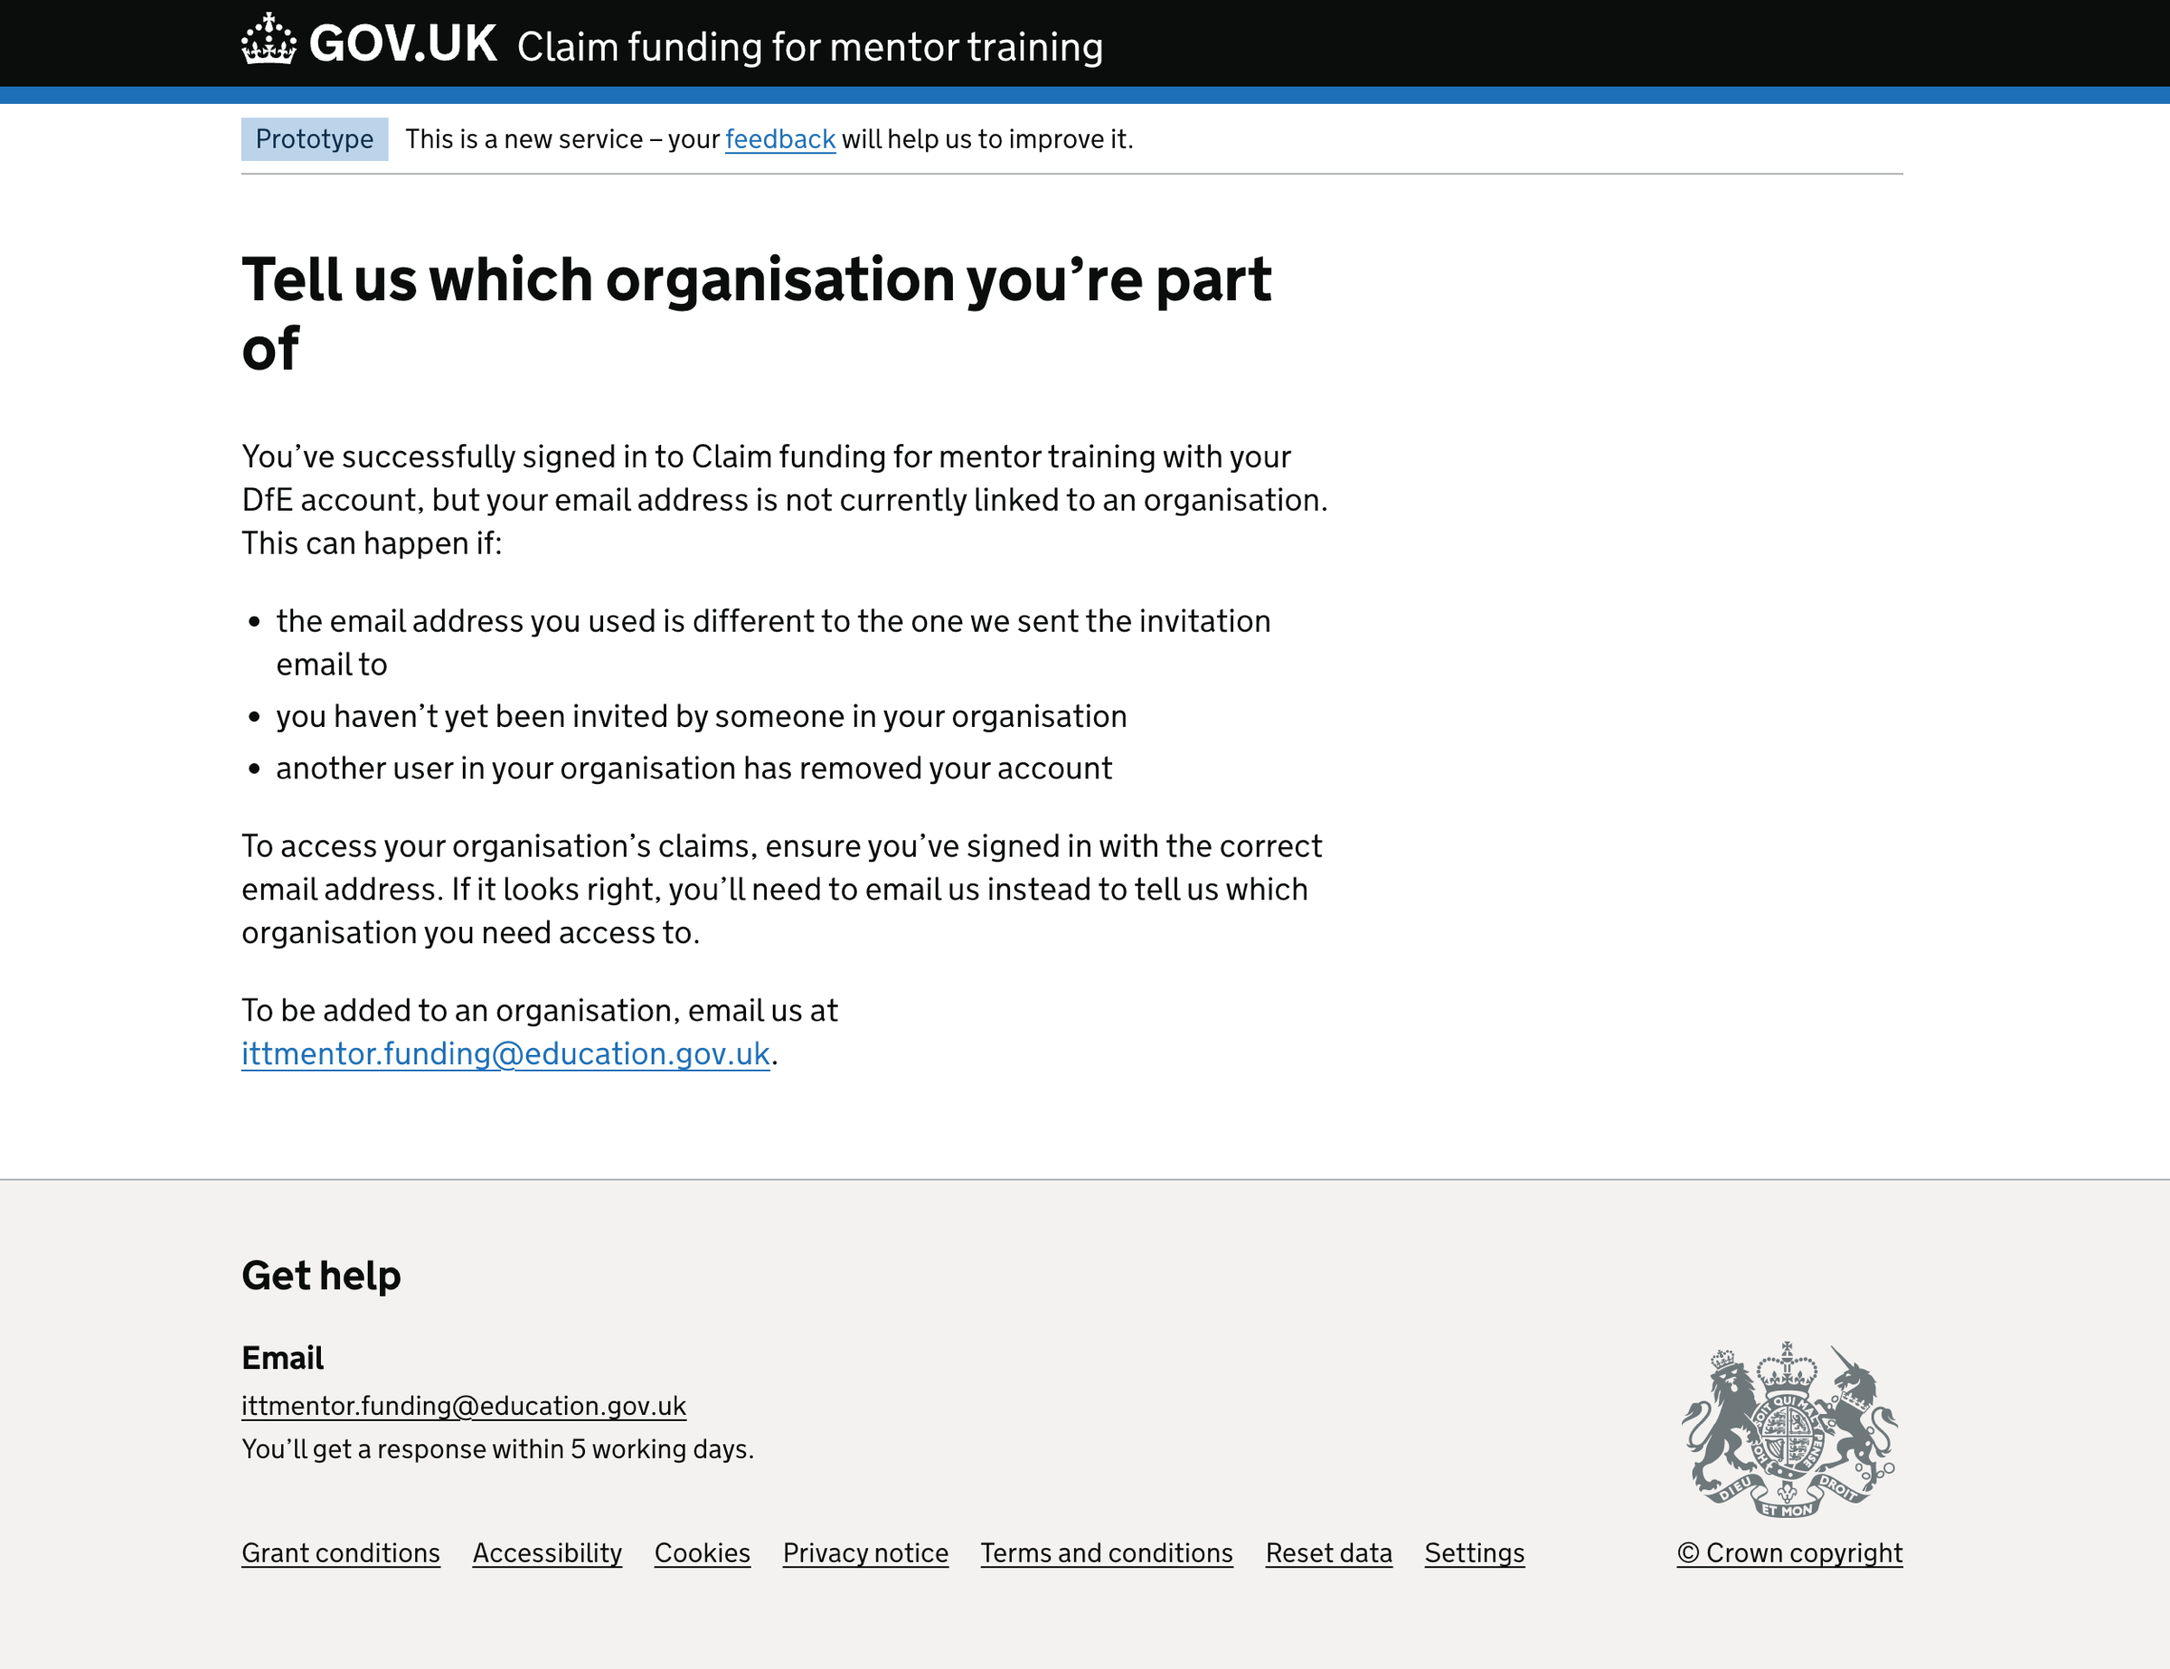
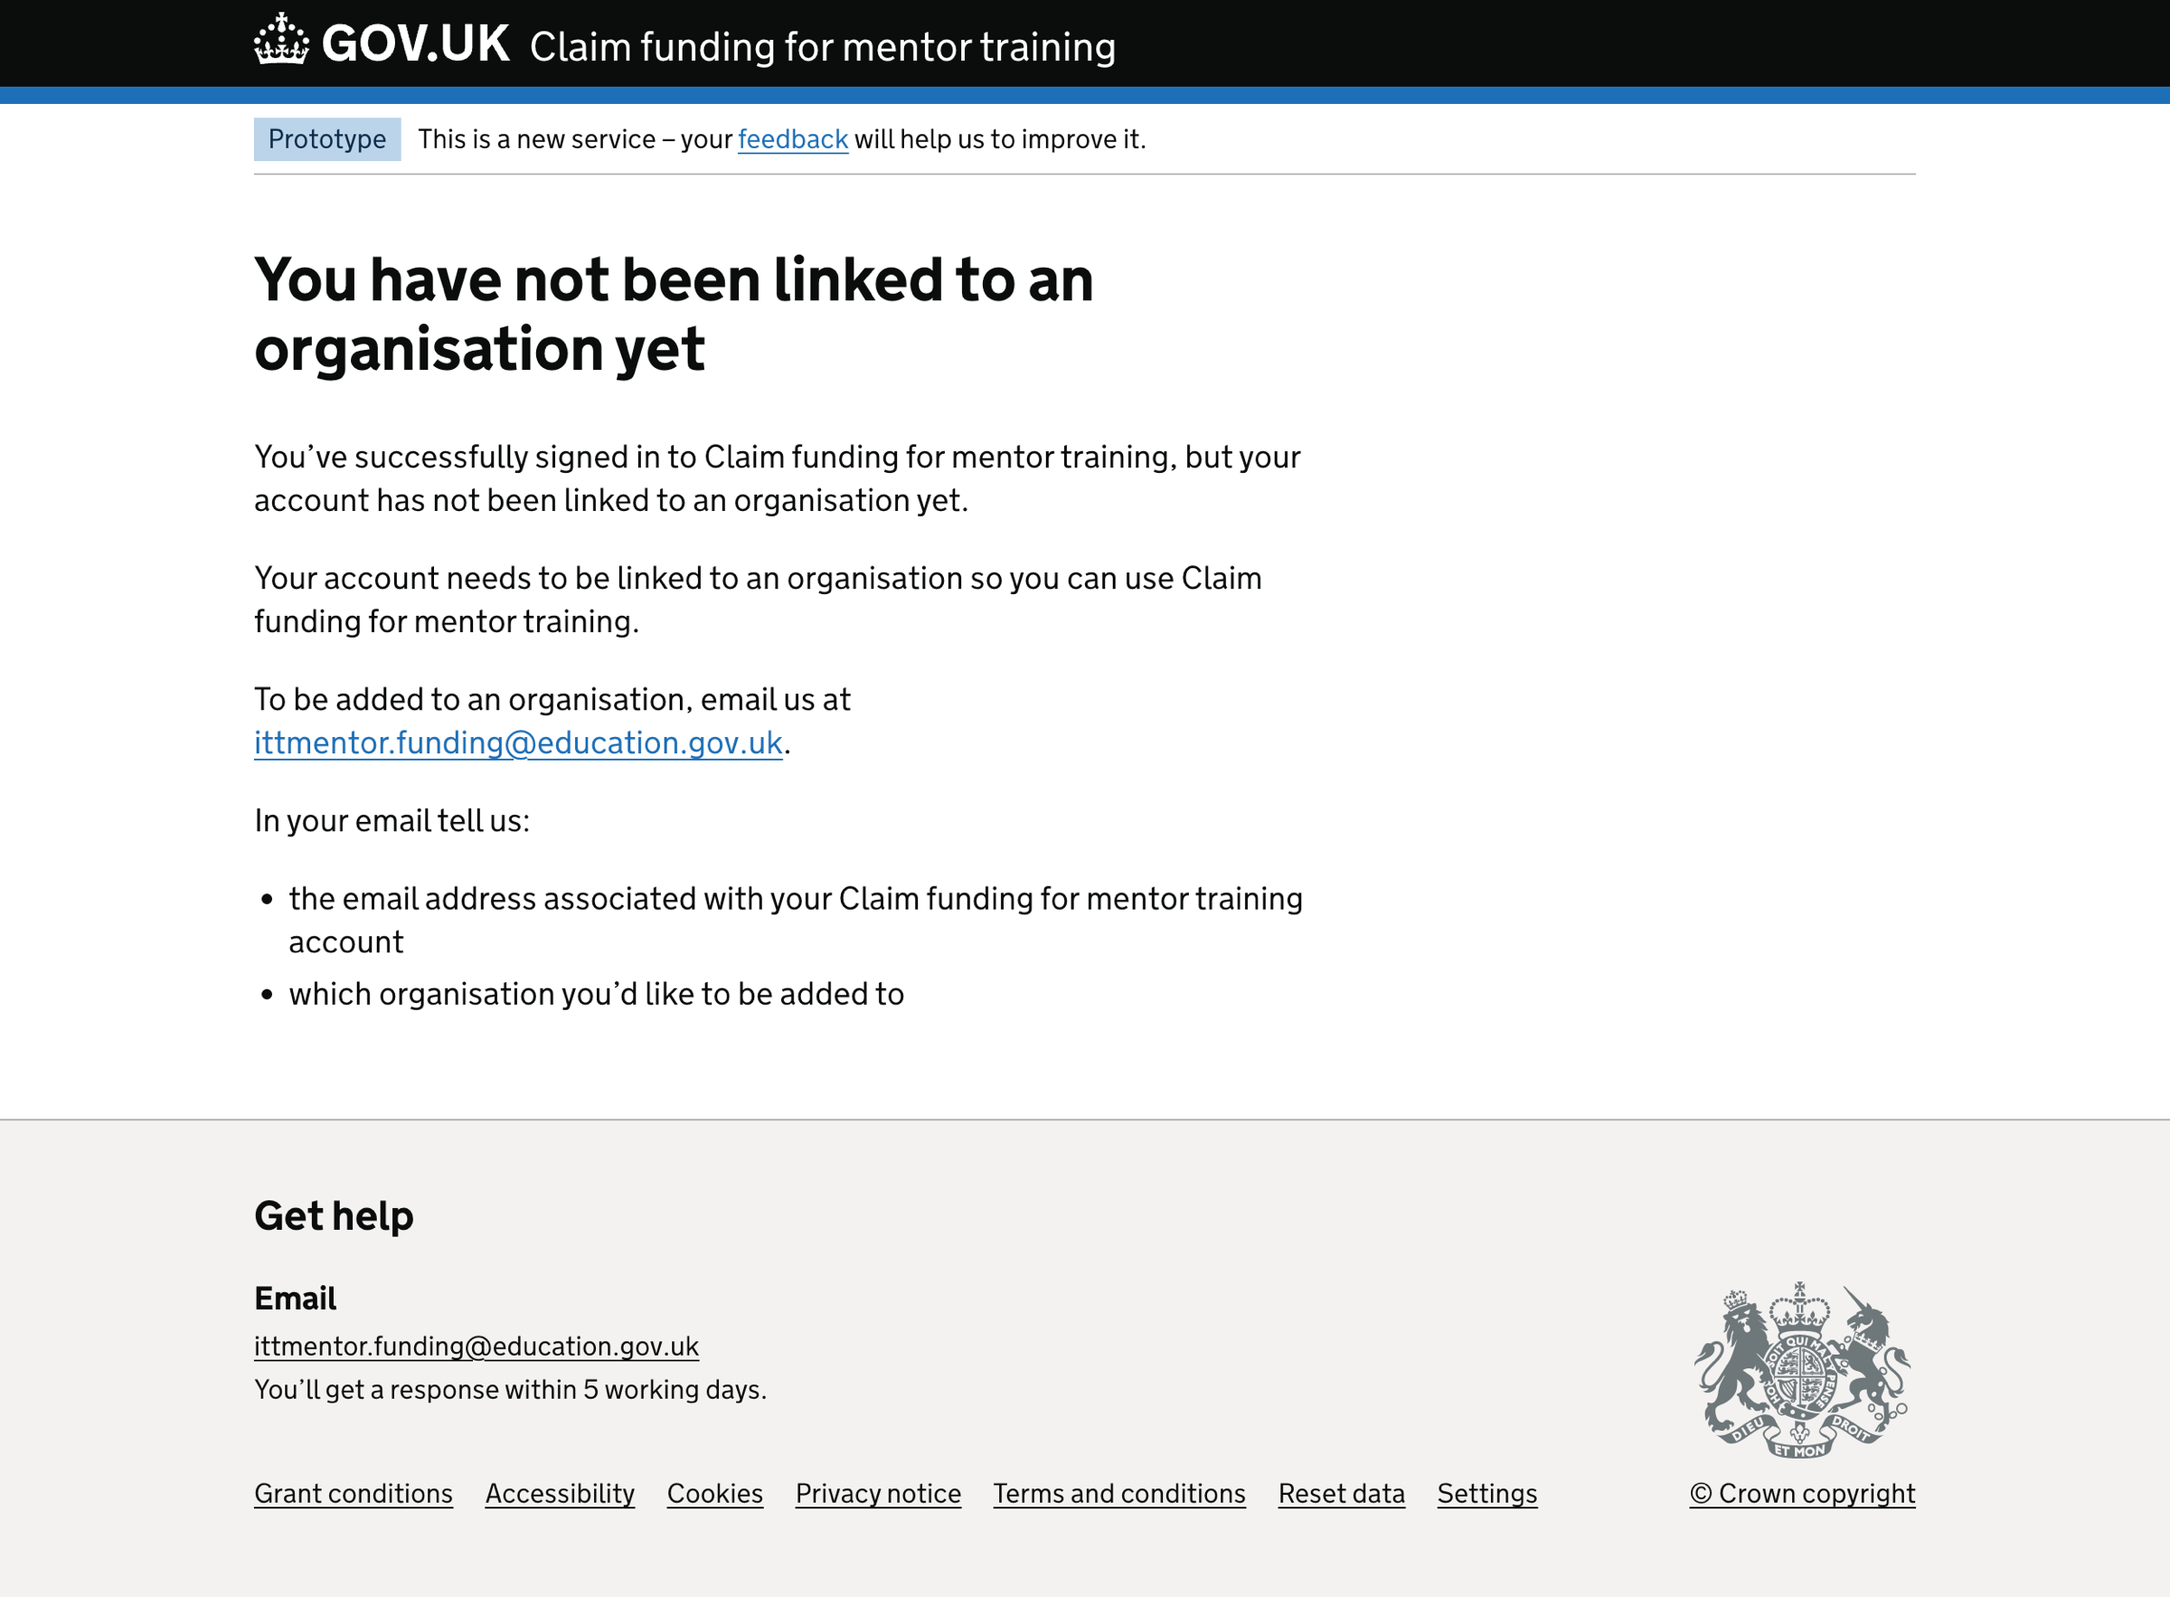
Update post content

diff --git a/app/posts/claim-funding-for-mentors/2023-12-19-signing-in-to-the-service.md b/app/posts/claim-funding-for-mentors/2023-12-19-signing-in-to-the-service.md
@@ -82,25 +82,26 @@ If a user has a DfE Sign-in account, they can sign in to the service. However, i
 
 > **Ask for an account to claim funding for mentor training**
 >
-> Although you have a DfE Sign-in account, you also need an account for this service.
+> Although you have a DfE Sign-in account, you also need an account on Claim funding for mentor training.
 >
-> If you think you should have an account, email <ittmentor.funding@education.gov.uk>
-
-If a user has a DfE Sign-in account and we recognise them in the service but they are not linked to an organisation, we show a message:
+> If you think you should have an account, email us at [ittmentor.funding@education.gov.uk](mailto:ittmentor.funding@education.gov.uk).
 
 ![Error message when a user account has not been recognised](user-account-not-recognised.png "Error message when a user account has not been recognised")
 
-> **Tell us which organisation you’re part of**
+If a user has a DfE Sign-in account and we recognise them in the service but they are not linked to an organisation, we show a message:
+
+> **You have not been linked to an organisation yet**
 >
-> You’ve successfully signed in to your DfE account, but your email address is not currently linked to an organisation. This can happen if:
+> You’ve successfully signed in to Claim funding for mentor training, but your account has not been linked to an organisation yet.
 >
-> - the email address you used is different to the one we sent the invitation email to
-> - you haven't yet been invited by someone in your organisation
-> - another user in your organisation has removed your account
+> Your account needs to be linked to an organisation so you can use Claim funding for mentor training.
 >
-> To access your organisation’s claims, ensure you’ve signed in with the correct email address. If it looks right, you’ll need to email us instead to tell us which organisation you need access to.
+> To be added to an organisation, email us at [ittmentor.funding@education.gov.uk](mailto:ittmentor.funding@education.gov.uk).
 >
-> To be added to an organisation, email us at <ittmentor.funding@education.gov.uk>
+> In your email tell us:
+>
+> - the email address associated with your Claim funding for mentor training account
+> - which organisation you’d like to be added to
 
 ![Error message when a user account has been recognised, but it is not linked to an organisation](user-account-not-linked-to-an-organisation.png "Error message when a user account has been recognised, but it is not linked to an organisation")
 
